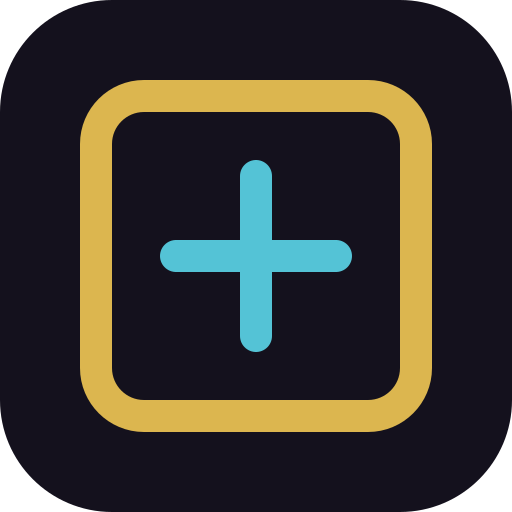
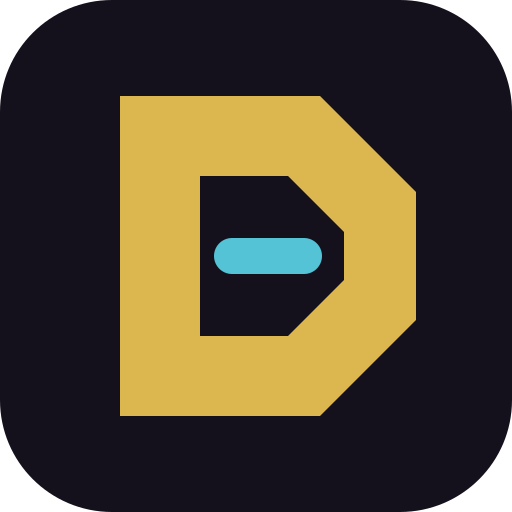
feat(brand): 앱 아이콘·로고 교체와 링크 공유 이미지 추가
임시 아이콘(둥근 사각 + 십자)은 앱이 무엇을 하는 물건인지 말하지 않았다.
Chakra Petch 의 잘린 모서리를 가져온 각진 D 로 바꾼다 — 앱바 제목이 쓰는
서체와 같은 골격이라, 아이콘과 화면이 한 언어가 된다.

og:image 가 아예 없어서 링크를 공유하면 썸네일도 설명도 뜨지 않았다.
1200x630 카드를 넣고 메타 태그를 붙인다. 워드마크는 폰트가 아니라 패스로
갖는다 — 렌더 시점에 폰트 의존이 없고, 로고는 원래 그래야 한다.

og.png 는 서비스워커 프리캐시에서 뺐다. 크롤러가 보는 이미지를 사용자
기기에 내려받게 할 이유가 없다.

Claude-Session: https://claude.ai/code/session_01Txifz1Vf77iUd2GPgEcyNu

diff --git a/index.html b/index.html
@@ -11,6 +11,16 @@
     <!-- 상태 표시줄 뒤까지 그린다. 안전 영역은 styles.css 가 env(safe-area-inset-*) 로 처리. -->
     <meta name="apple-mobile-web-app-status-bar-style" content="black-translucent" />
     <meta name="mobile-web-app-capable" content="yes" />
+    <!-- 링크를 공유했을 때 뜨는 카드. og:image 는 배포 도메인이 정해지면
+         절대 URL(https://…/og.png)로 바꾸는 편이 크롤러 호환에 안전하다. -->
+    <meta property="og:type" content="website" />
+    <meta property="og:site_name" content="Deckers Challenge Log" />
+    <meta property="og:title" content="Deckers Challenge Log" />
+    <meta property="og:description" content="Run log, card reference and progress for the board game Deckers." />
+    <meta property="og:image" content="/og.png" />
+    <meta property="og:image:width" content="1200" />
+    <meta property="og:image:height" content="630" />
+    <meta name="twitter:card" content="summary_large_image" />
     <meta name="description" content="Run log, card reference and progress for the board game Deckers." />
     <!-- lang 은 앱 시작 시 src/i18n 의 syncDocumentLang() 이 현재 언어로 덮어쓴다 -->
     <title>Deckers Challenge Log</title>

diff --git a/README.md b/README.md
@@ -1,4 +1,4 @@
-# Deckers Challenge Log
+![Deckers Challenge Log](docs/logo-lockup.png)
 
 보드게임 [Deckers](https://boardgamegeek.com/boardgame/443306/deckers) 컴패니언 PWA.
 플레이 기록, 목표 카드 조회, 진행 상황을 한 곳에서 본다.
